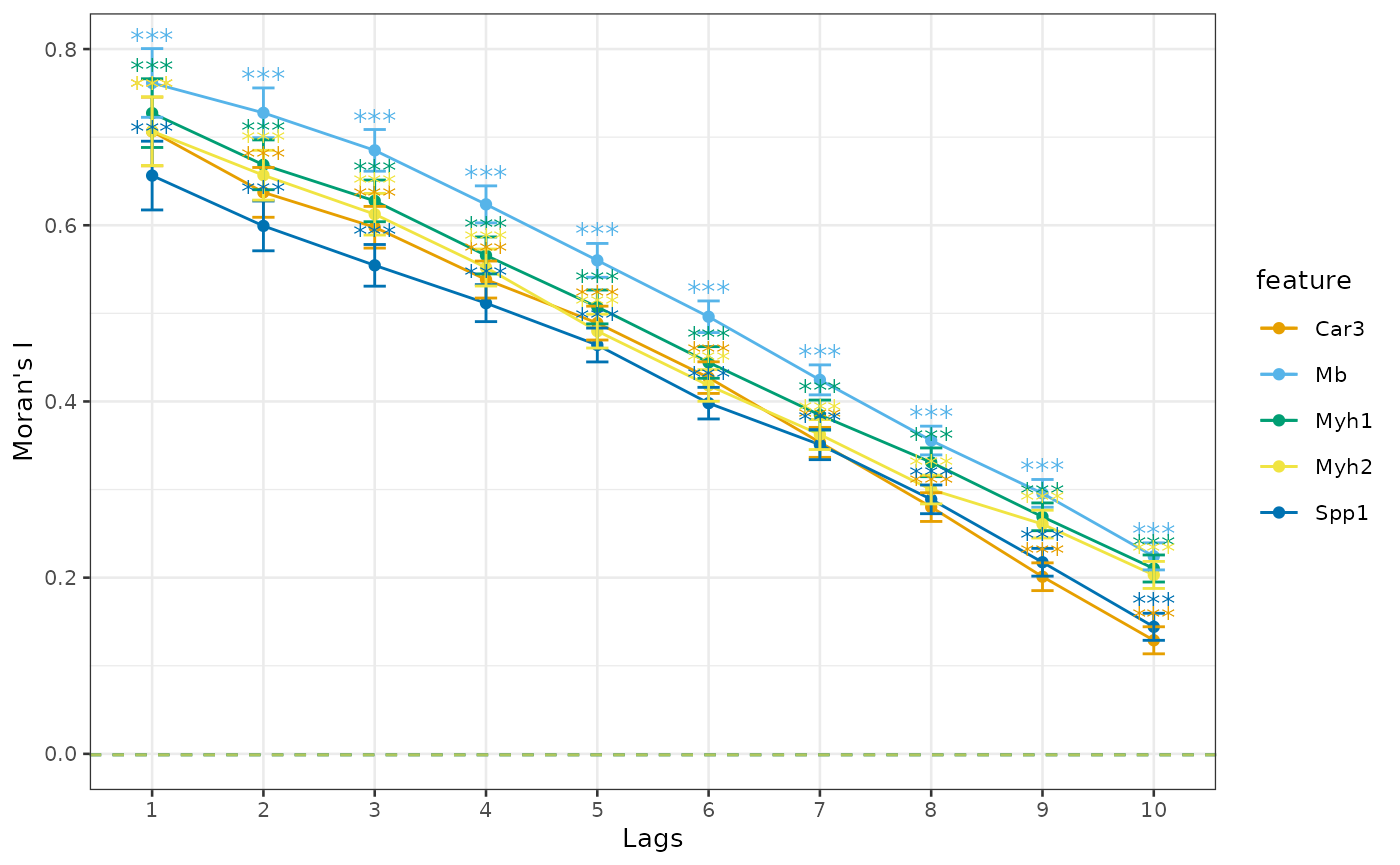
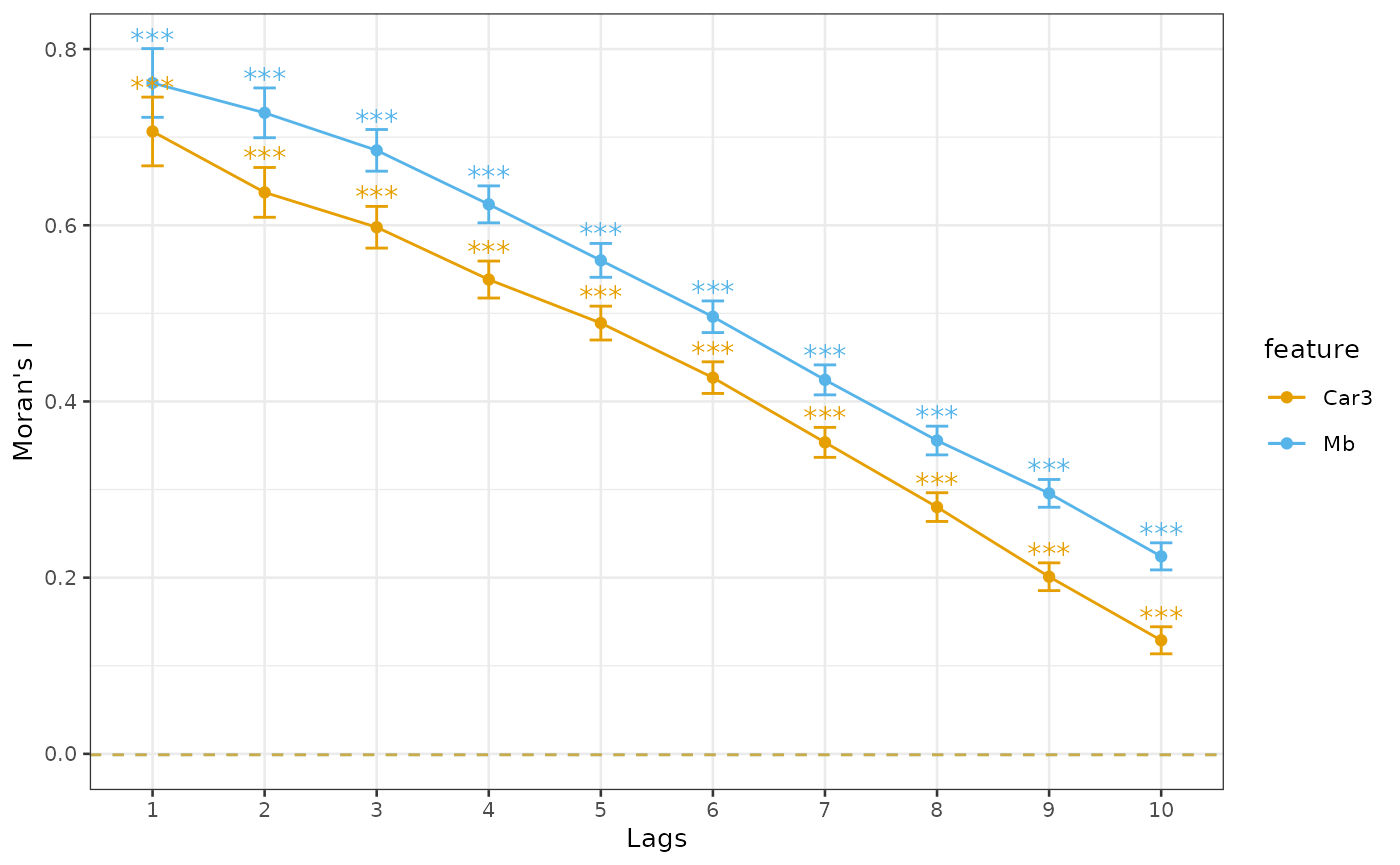
Deploying to gh-pages from @ lambdamoses/SFEWorkshop@6f800e95829e395096df8404928b2a2df37931ee 🚀

diff --git a/articles/vig3_Voyager.html b/articles/vig3_Voyager.html
@@ -223,7 +223,7 @@ on the structure of the SFE object. The SFE object of this dataset is
 provided in the <code>SFEData</code> package.</p>
 <div class="sourceCode" id="cb2"><pre class="downlit sourceCode r">
 <code class="sourceCode R"><span><span class="op">(</span><span class="va">sfe</span> <span class="op">&lt;-</span> <span class="fu"><a href="https://rdrr.io/pkg/SFEData/man/McKellarMuscleData.html" class="external-link">McKellarMuscleData</a></span><span class="op">(</span><span class="st">"full"</span><span class="op">)</span><span class="op">)</span></span>
-<span><span class="co">#&gt; snapshotDate(): 2022-07-15</span></span>
+<span><span class="co">#&gt; snapshotDate(): 2022-07-22</span></span>
 <span><span class="co">#&gt; see ?SFEData and browseVignettes('SFEData') for documentation</span></span>
 <span><span class="co">#&gt; loading from cache</span></span>
 <span><span class="co">#&gt; class: SpatialFeatureExperiment </span></span>
@@ -593,9 +593,7 @@ structure, while negative Moran’s I indicates local structure.</p>
 <p>Upon visual inspection, total UMI counts per spot seem to have
 spatial autocorrelation. A spatial neighborhood graph is required to
 compute Moran’s I, and is specified with the <code>listw</code>
-argument. Also, if the metrics are computed for a large number of
-features, parallel computing is supported, with
-<code>BiocParallel</code>, with the <code>BPPARAM</code> argument.</p>
+argument.</p>
 <p>For matrices, the rows are the features, as in the gene count
 matrix.</p>
 <div class="sourceCode" id="cb23"><pre class="downlit sourceCode r">
@@ -658,7 +656,10 @@ ellipse fitted to each myofiber.</p>
 <code>colGeometries</code> in this dataset has extra columns.</p>
 <p>For gene expression, the <code>logcounts</code> assay is used by
 default (use the <code>exprs_values</code> argument to change the
-assay), though this may or may not be best practice.</p>
+assay), though this may or may not be best practice. If the metrics are
+computed for a large number of features, parallel computing is
+supported, with <code>BiocParallel</code>, with the <code>BPPARAM</code>
+argument.</p>
 <div class="sourceCode" id="cb26"><pre class="downlit sourceCode r">
 <code class="sourceCode R"><span><span class="va">sfe_tissue</span> <span class="op">&lt;-</span> <span class="fu"><a href="https://rdrr.io/pkg/Voyager/man/calculateMoransI.html" class="external-link">runMoransI</a></span><span class="op">(</span><span class="va">sfe_tissue</span>, features <span class="op">=</span> <span class="va">hvgs</span>, colGraphName <span class="op">=</span> <span class="st">"visium"</span>, </span>
 <span>                         BPPARAM <span class="op">=</span> <span class="fu"><a href="https://rdrr.io/pkg/BiocParallel/man/MulticoreParam-class.html" class="external-link">MulticoreParam</a></span><span class="op">(</span><span class="fl">2</span><span class="op">)</span><span class="op">)</span></span>
@@ -744,7 +745,8 @@ the results to the SFE object. MC stands for Monte Carlo. The
 <code>nsim</code> argument specifies the number of simulations.</p>
 <p>Add the results to the SFE object</p>
 <div class="sourceCode" id="cb28"><pre class="downlit sourceCode r">
-<code class="sourceCode R"><span><span class="va">sfe_tissue</span> <span class="op">&lt;-</span> <span class="fu"><a href="https://rdrr.io/pkg/Voyager/man/calculateMoranMC.html" class="external-link">colDataMoranMC</a></span><span class="op">(</span><span class="va">sfe_tissue</span>, features <span class="op">=</span> <span class="fu"><a href="https://rdrr.io/r/base/c.html" class="external-link">c</a></span><span class="op">(</span><span class="st">"nCounts"</span>, <span class="st">"nGenes"</span><span class="op">)</span>, </span>
+<code class="sourceCode R"><span><span class="fu"><a href="https://rdrr.io/r/base/Random.html" class="external-link">set.seed</a></span><span class="op">(</span><span class="fl">29</span><span class="op">)</span></span>
+<span><span class="va">sfe_tissue</span> <span class="op">&lt;-</span> <span class="fu"><a href="https://rdrr.io/pkg/Voyager/man/calculateMoranMC.html" class="external-link">colDataMoranMC</a></span><span class="op">(</span><span class="va">sfe_tissue</span>, features <span class="op">=</span> <span class="fu"><a href="https://rdrr.io/r/base/c.html" class="external-link">c</a></span><span class="op">(</span><span class="st">"nCounts"</span>, <span class="st">"nGenes"</span><span class="op">)</span>, </span>
 <span>                             colGraphName <span class="op">=</span> <span class="st">"visium"</span>, nsim <span class="op">=</span> <span class="fl">100</span><span class="op">)</span></span>
 <span><span class="fu"><a href="https://rdrr.io/r/utils/head.html" class="external-link">head</a></span><span class="op">(</span><span class="fu"><a href="https://rdrr.io/pkg/Voyager/man/colFeatureData.html" class="external-link">colFeatureData</a></span><span class="op">(</span><span class="va">sfe_tissue</span><span class="op">)</span>, <span class="fl">10</span><span class="op">)</span></span>
 <span><span class="co">#&gt; DataFrame with 10 rows and 10 columns</span></span>
@@ -834,11 +836,11 @@ permutation test functions, except for the <code>order</code> argument
 specifying the maximum order of neighbors.</p>
 <p>For <code>colData</code>, Moran’s I correlogram:</p>
 <div class="sourceCode" id="cb32"><pre class="downlit sourceCode r">
-<code class="sourceCode R"><span><span class="va">sfe_tissue</span> <span class="op">&lt;-</span> <span class="fu"><a href="https://rdrr.io/pkg/Voyager/man/calculateCorrelogram.html" class="external-link">runCorrelogram</a></span><span class="op">(</span><span class="va">sfe_tissue</span>, <span class="va">hvgs</span><span class="op">[</span><span class="fl">1</span><span class="op">:</span><span class="fl">5</span><span class="op">]</span>, colGraphName <span class="op">=</span> <span class="st">"visium"</span>, </span>
-<span>                             order <span class="op">=</span> <span class="fl">10</span>, BPPARAM <span class="op">=</span> <span class="fu"><a href="https://rdrr.io/pkg/BiocParallel/man/MulticoreParam-class.html" class="external-link">MulticoreParam</a></span><span class="op">(</span><span class="fl">2</span><span class="op">)</span><span class="op">)</span></span></code></pre></div>
+<code class="sourceCode R"><span><span class="va">sfe_tissue</span> <span class="op">&lt;-</span> <span class="fu"><a href="https://rdrr.io/pkg/Voyager/man/calculateCorrelogram.html" class="external-link">runCorrelogram</a></span><span class="op">(</span><span class="va">sfe_tissue</span>, <span class="va">hvgs</span><span class="op">[</span><span class="fl">1</span><span class="op">:</span><span class="fl">2</span><span class="op">]</span>, colGraphName <span class="op">=</span> <span class="st">"visium"</span>, </span>
+<span>                             order <span class="op">=</span> <span class="fl">10</span><span class="op">)</span></span></code></pre></div>
 <p>The results can be plotted with <code>plotCorrelogram</code></p>
 <div class="sourceCode" id="cb33"><pre class="downlit sourceCode r">
-<code class="sourceCode R"><span><span class="fu"><a href="https://rdrr.io/pkg/Voyager/man/plotCorrelogram.html" class="external-link">plotCorrelogram</a></span><span class="op">(</span><span class="va">sfe_tissue</span>, <span class="va">hvgs</span><span class="op">[</span><span class="fl">1</span><span class="op">:</span><span class="fl">5</span><span class="op">]</span><span class="op">)</span></span></code></pre></div>
+<code class="sourceCode R"><span><span class="fu"><a href="https://rdrr.io/pkg/Voyager/man/plotCorrelogram.html" class="external-link">plotCorrelogram</a></span><span class="op">(</span><span class="va">sfe_tissue</span>, <span class="va">hvgs</span><span class="op">[</span><span class="fl">1</span><span class="op">:</span><span class="fl">2</span><span class="op">]</span><span class="op">)</span></span></code></pre></div>
 <p><img src="vig3_Voyager_files/figure-html/unnamed-chunk-34-1.png" width="700" style="display: block; margin: auto;"></p>
 <p>The error bars are twice the standard deviation of the Moran’s I
 value. The standard deviation and p-values (null hypothesis is that
@@ -984,7 +986,7 @@ in later versions.</li>
 <span><span class="co">#&gt;  [73] ggnewscale_0.4.7              mime_0.12                    </span></span>
 <span><span class="co">#&gt;  [75] evaluate_0.15                 xtable_1.8-4                 </span></span>
 <span><span class="co">#&gt;  [77] gridExtra_2.3                 compiler_4.2.0               </span></span>
-<span><span class="co">#&gt;  [79] tibble_3.1.7                  KernSmooth_2.23-20           </span></span>
+<span><span class="co">#&gt;  [79] tibble_3.1.8                  KernSmooth_2.23-20           </span></span>
 <span><span class="co">#&gt;  [81] crayon_1.5.1                  R.oo_1.25.0                  </span></span>
 <span><span class="co">#&gt;  [83] htmltools_0.5.3               mgcv_1.8-40                  </span></span>
 <span><span class="co">#&gt;  [85] later_1.3.0                   spdep_1.2-4                  </span></span>

diff --git a/articles/vig2_SFE.html b/articles/vig2_SFE.html
@@ -261,7 +261,7 @@ gene expression.</li>
 <div class="sourceCode" id="cb3"><pre class="downlit sourceCode r">
 <code class="sourceCode R"><span><span class="co"># Example dataset</span></span>
 <span><span class="op">(</span><span class="va">sfe</span> <span class="op">&lt;-</span> <span class="fu"><a href="https://rdrr.io/pkg/SFEData/man/McKellarMuscleData.html" class="external-link">McKellarMuscleData</a></span><span class="op">(</span>dataset <span class="op">=</span> <span class="st">"small"</span><span class="op">)</span><span class="op">)</span></span>
-<span><span class="co">#&gt; snapshotDate(): 2022-07-15</span></span>
+<span><span class="co">#&gt; snapshotDate(): 2022-07-22</span></span>
 <span><span class="co">#&gt; see ?SFEData and browseVignettes('SFEData') for documentation</span></span>
 <span><span class="co">#&gt; loading from cache</span></span>
 <span><span class="co">#&gt; class: SpatialFeatureExperiment </span></span>
@@ -469,11 +469,11 @@ samples.</p>
 <div class="sourceCode" id="cb20"><pre class="downlit sourceCode r">
 <code class="sourceCode R"><span><span class="co"># Construct toy dataset with 2 samples</span></span>
 <span><span class="va">sfe1</span> <span class="op">&lt;-</span> <span class="fu"><a href="https://rdrr.io/pkg/SFEData/man/McKellarMuscleData.html" class="external-link">McKellarMuscleData</a></span><span class="op">(</span>dataset <span class="op">=</span> <span class="st">"small"</span><span class="op">)</span></span>
-<span><span class="co">#&gt; snapshotDate(): 2022-07-15</span></span>
+<span><span class="co">#&gt; snapshotDate(): 2022-07-22</span></span>
 <span><span class="co">#&gt; see ?SFEData and browseVignettes('SFEData') for documentation</span></span>
 <span><span class="co">#&gt; loading from cache</span></span>
 <span><span class="va">sfe2</span> <span class="op">&lt;-</span> <span class="fu"><a href="https://rdrr.io/pkg/SFEData/man/McKellarMuscleData.html" class="external-link">McKellarMuscleData</a></span><span class="op">(</span>dataset <span class="op">=</span> <span class="st">"small2"</span><span class="op">)</span></span>
-<span><span class="co">#&gt; snapshotDate(): 2022-07-15</span></span>
+<span><span class="co">#&gt; snapshotDate(): 2022-07-22</span></span>
 <span><span class="co">#&gt; see ?SFEData and browseVignettes('SFEData') for documentation</span></span>
 <span><span class="co">#&gt; loading from cache</span></span>
 <span><span class="fu"><a href="https://pachterlab.github.io/SpatialFeatureExperiment/reference/dimGeometries.html" class="external-link">spotPoly</a></span><span class="op">(</span><span class="va">sfe2</span><span class="op">)</span><span class="op">$</span><span class="va">sample_id</span> <span class="op">&lt;-</span> <span class="st">"sample02"</span></span>
@@ -898,7 +898,7 @@ process analyses.</li>
 <span><span class="co">#&gt;  [59] edgeR_3.39.3                  zlibbioc_1.43.0              </span></span>
 <span><span class="co">#&gt;  [61] promises_1.2.0.1              ragg_1.2.2                   </span></span>
 <span><span class="co">#&gt;  [63] parallel_4.2.0                rhdf5_2.41.1                 </span></span>
-<span><span class="co">#&gt;  [65] curl_4.3.2                    yaml_2.3.5                   </span></span>
+<span><span class="co">#&gt;  [65] yaml_2.3.5                    curl_4.3.2                   </span></span>
 <span><span class="co">#&gt;  [67] memoise_2.0.1                 sass_0.4.2                   </span></span>
 <span><span class="co">#&gt;  [69] stringi_1.7.8                 RSQLite_2.2.15               </span></span>
 <span><span class="co">#&gt;  [71] BiocVersion_3.16.0            highr_0.9                    </span></span>
@@ -915,7 +915,7 @@ process analyses.</li>
 <span><span class="co">#&gt;  [93] DelayedArray_0.23.0           DBI_1.1.3                    </span></span>
 <span><span class="co">#&gt;  [95] pillar_1.8.0                  units_0.8-0                  </span></span>
 <span><span class="co">#&gt;  [97] KEGGREST_1.37.3               RCurl_1.98-1.7               </span></span>
-<span><span class="co">#&gt;  [99] sp_1.5-0                      tibble_3.1.7                 </span></span>
+<span><span class="co">#&gt;  [99] sp_1.5-0                      tibble_3.1.8                 </span></span>
 <span><span class="co">#&gt; [101] crayon_1.5.1                  DropletUtils_1.17.0          </span></span>
 <span><span class="co">#&gt; [103] KernSmooth_2.23-20            utf8_1.2.2                   </span></span>
 <span><span class="co">#&gt; [105] BiocFileCache_2.5.0           rmarkdown_2.14               </span></span>

diff --git a/articles/vig1_intro.html b/articles/vig1_intro.html
@@ -92,7 +92,7 @@ Pachter</h4>
                   <a class="author_email" href="mailto:#"></a><a href="mailto:lpachter@caltech.edu" class="email">lpachter@caltech.edu</a>
       
                   
-            <h4 data-toc-skip class="date">2022-07-21</h4>
+            <h4 data-toc-skip class="date">2022-07-25</h4>
       
       <small class="dont-index">Source: <a href="https://github.com/lambdamoses/SFEWorkshop/blob/HEAD/vignettes/vig1_intro.Rmd"><code>vignettes/vig1_intro.Rmd</code></a></small>
       <div class="hidden name"><code>vig1_intro.Rmd</code></div>
